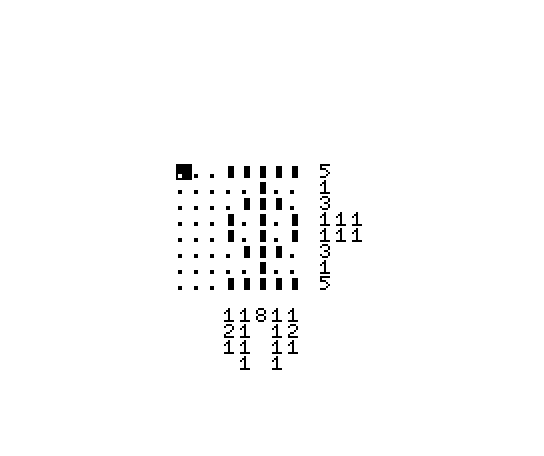
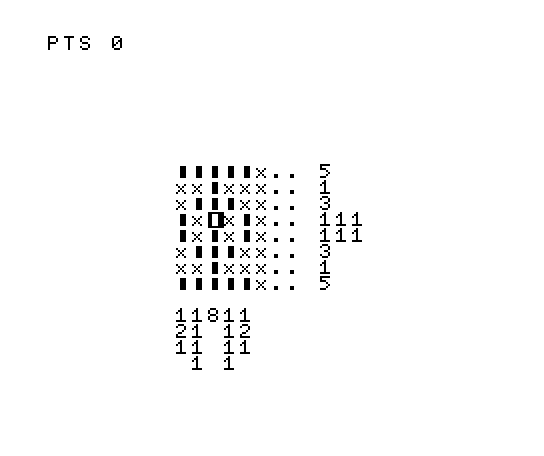
pico

diff --git a/Pico10L/README.MD b/Pico10L/README.MD
@@ -1,0 +1,111 @@
+# Pico10L
+Pico10L is an implementation in MSX2 BASIC of classic Picross game.
+he game consists in guessing the pixels to 1 of the image.
+
+![screenshot](pico.gif)
+
+# Controls
+- Cursor keys to move the cursor
+- SPACE to invert state of a pixel
+- 'x' to mark a pixel as 0
+- '.' to mark a pixel with initial state
+- ENTER to check if puzzle is risolved
+- ESC to abandon game e go to next puzzle.
+
+Sources are stored at: https://github.com/robertocapuano/BASIC10L/Pico10L
+
+# Installation
+Game was developed in MSX-BASIC v3 on a MSX2+. Emulator is available at https://webmsx.org/
+1. connect to https://webmsx.org
+2. click on the first floppy icon below the blue screen
+3. Select "Add Disk Images"
+4. Choose "pico.dsk"
+5. type in:
+```
+load "a:pico.bas"
+run
+```
+
+WebMSX Launch URL:
+
+- https://webmsx.org/?DISK=https://github.com/robertocapuano/BASIC10L/raw/main/Pico10L/pico.dsk&BASIC_RUN=pico.bas
+
+
+#Variables
+
+
+PT: Points
+ER: errors
+SY:symbols
+NR next row
+NC: next col
+CR contatori per riga
+CC contatori per colonna
+
+GC= character to guess
+CP= char pointer
+
+PA: power array
+CB: char byte
+CM: mappa del carattere
+UM: mappa dell'utente
+
+BB=grid base
+VB=base(5)=video table
+PB=base(7)=char memory
+
+
+# Source Description
+```
+0 screen1,0,0:COLOR1,15,15:KEYOFF:CLS:DEFINTA-Z:VB=base(5):R=RND(-TIME):BB=VB+266:PB=BASE(7):sy(0)=46:SY(1)=254:PA(7)=1
+```
+- initialize screen and some variables
+
+```
+1 forI=6to0step-1:PA(i)=PA(i+1)*2:next:ifGC<>0thenforI=0to7:forJ=0to7:vpokeBB+I*32+j,SY(CM(I,J)):nextJ,I:k$=INPUT$(1)
+```
+- initialize power array
+- in case of game end draw real value of pixels
+
+```
+2 cls:PLAY"T120O4L15A":GC=RND(1)*255:CP=PB+GC*8:fori=0TO7:CB=VPEEK(CP+I):forJ=0to7:CM(I,J)=-((CBANDPA(J))>0):nextJ,I
+```
+- initialize GC (char to guess)
+- read value of pixel from char memory to initialize user map
+
+```
+3 ?"PTS"PT:forI=0to7:forJ=0to7:vpoke BB+I*32+j,SY(0):UM(I,J)=0:next J,I:forI=0to7:CR=0:CC=0:NR=0:NC=0:R=0:C=0:forJ=0to7: 
+```
+- print points
+- initialize for loop to calculate sequences of 0/1 bits
+
+```
+4 CR=CR-(CM(I,J)=1):if(CM(I,J)=0orJ=7)andCR>0thenNC=NC+1:VPOKEBB+8+32*I+NC,48+CR:CR=0
+```
+- Calculute sequences of horizontal 0/1 bits
+
+```
+5 CC=CC-(CM(J,I)=1):if(CM(J,I)=0orj=7)andCC>0thenNR=NR+1:VPOKEBB+32*(NR+8)+I,48+CC:CC=0
+```
+- Calculute sequences of vertical 0/1 bits
+
+```
+6 if RND(1)<0.1 and CM(I,J)>0 then UM(I,J)=1:vpoke BB+I*32+J,SY(1):nextJ,I:LOCATE 8,8:else nextJ,I:LOCATE 8,8
+```
+- randomically add some hints.
+
+```
+7 k=ASC(INPUT$(1)):P=BB+R*32+C:ifK=120orK=46thenvpokeP,K:UM(R,C)=0:elseifK=32thenUM(R,C)=UM(R,C)xor1:vpokeP,SY(UM(R,C))
+```
+- user inputs: 'x' and '.'
+
+```
+8 ifK=30andr>0thenR=R-1:elseifK=31andR<7thenR=R+1:elseifK=28andC<7thenC=C+1:elseifK=29andC>0thenC=C-1:elseifk=27then1
+```
+- user inputs: cursors
+
+```
+9 LOCATE8+C,8+R:ifk=13then ER=0:forI=0to7:forJ=0to7:ER=ER-(UM(i,j)<>CM(i,j)):nextj,I:ifER=0thenPT=PT+1:goto2:else7:else7
+```
+- user inputs: enter
+- check if puzzle is resolved.
